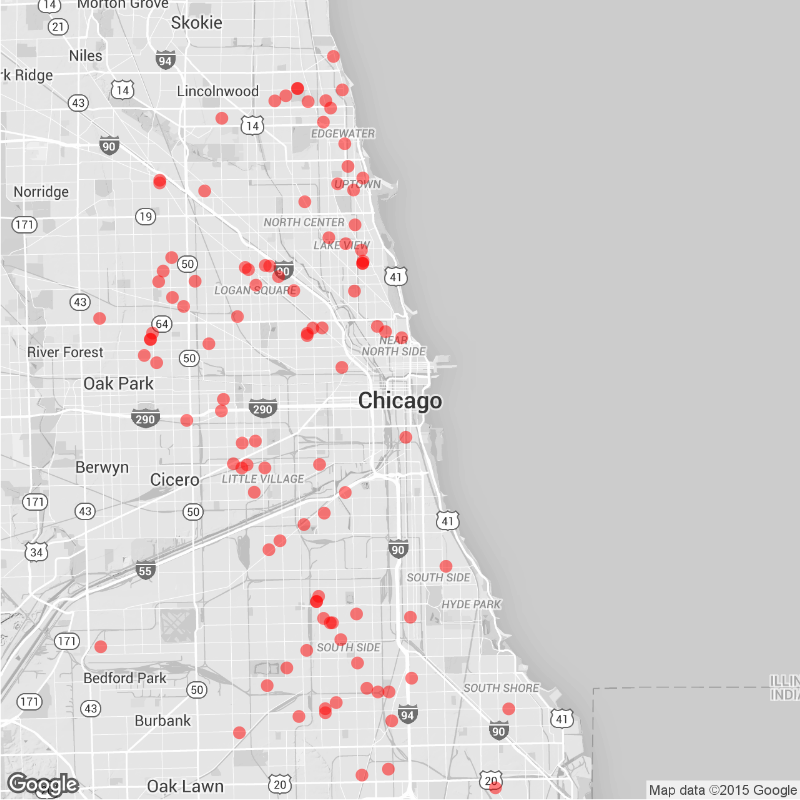
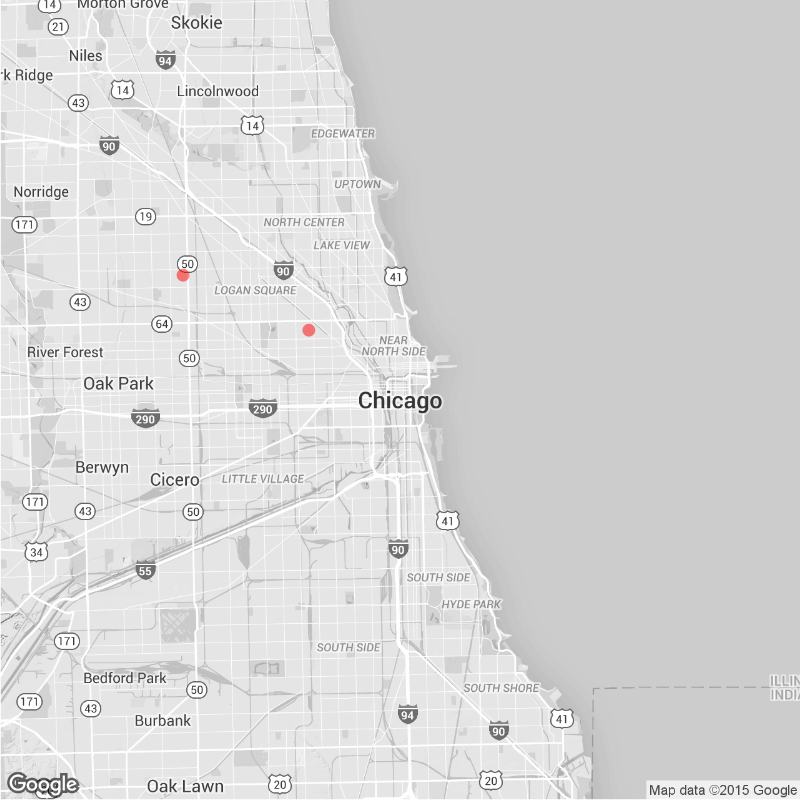
Daily Maps

diff --git a/daily.md b/daily.md
@@ -15,22 +15,22 @@ tags: Chicago NYC weekly daily rats
 
 ### Daily
 
-Yesterday (October 16), there were 109 calls to Chicago's 311 line about rats.
+Yesterday (October 17), there were 2 calls to Chicago's 311 line about rats.
 ![Chicago rat calls to 311 weekly map]({{ site.cityimages }}/daily/Chicago_Rat_Map_Daily.png)
 
 ### Weekly
-Between October 10 and October 16, there were 923 calls to Chicago's 311 line about rats. The average number of weekly calls for this time of year is 641.
+Between October 11 and October 17, there were 866 calls to Chicago's 311 line about rats. The average number of weekly calls for this time of year is 641.
 ![Chicago rat calls to 311 weekly map]({{ site.cityimages }}/daily/Chicago_Rat_Map_Weekly.png)
 ***
 # New York City <a id="nyc"><a>
 
 ### Daily
 
-Yesterday (October 16), there were 0 calls to New York City's 311 line about rats.
+Yesterday (October 17), there were 0 calls to New York City's 311 line about rats.
 ![NYC rat calls to 311 weekly map]({{ site.cityimages }}/daily/NYC_Rat_Map_Daily.png)
 
 ### Weekly
-Between October 10 and October 16, there were 0 calls to New York City's 311 line about rats. The average number of weekly calls for this time of year is 215.
+Between October 11 and October 17, there were 0 calls to New York City's 311 line about rats. The average number of weekly calls for this time of year is 215.
 ![NYC rat calls to 311 weekly map]({{ site.cityimages }}/daily/NYC_Rat_Map_Weekly.png)
 
 Each red dot represents one call about a rat seen in that location. The dots are transparent, so multiple calls from one location will be seen as a solid dot. The usual caveats apply: more calls do not necessarily mean that there are more rats in that location than other parts of the city. A cluster of dots could indicate that one resident is unusually vocal about rodents in his or her neighborhood. Also, more densely populated neighborhoods tend to make more calls to 311.
